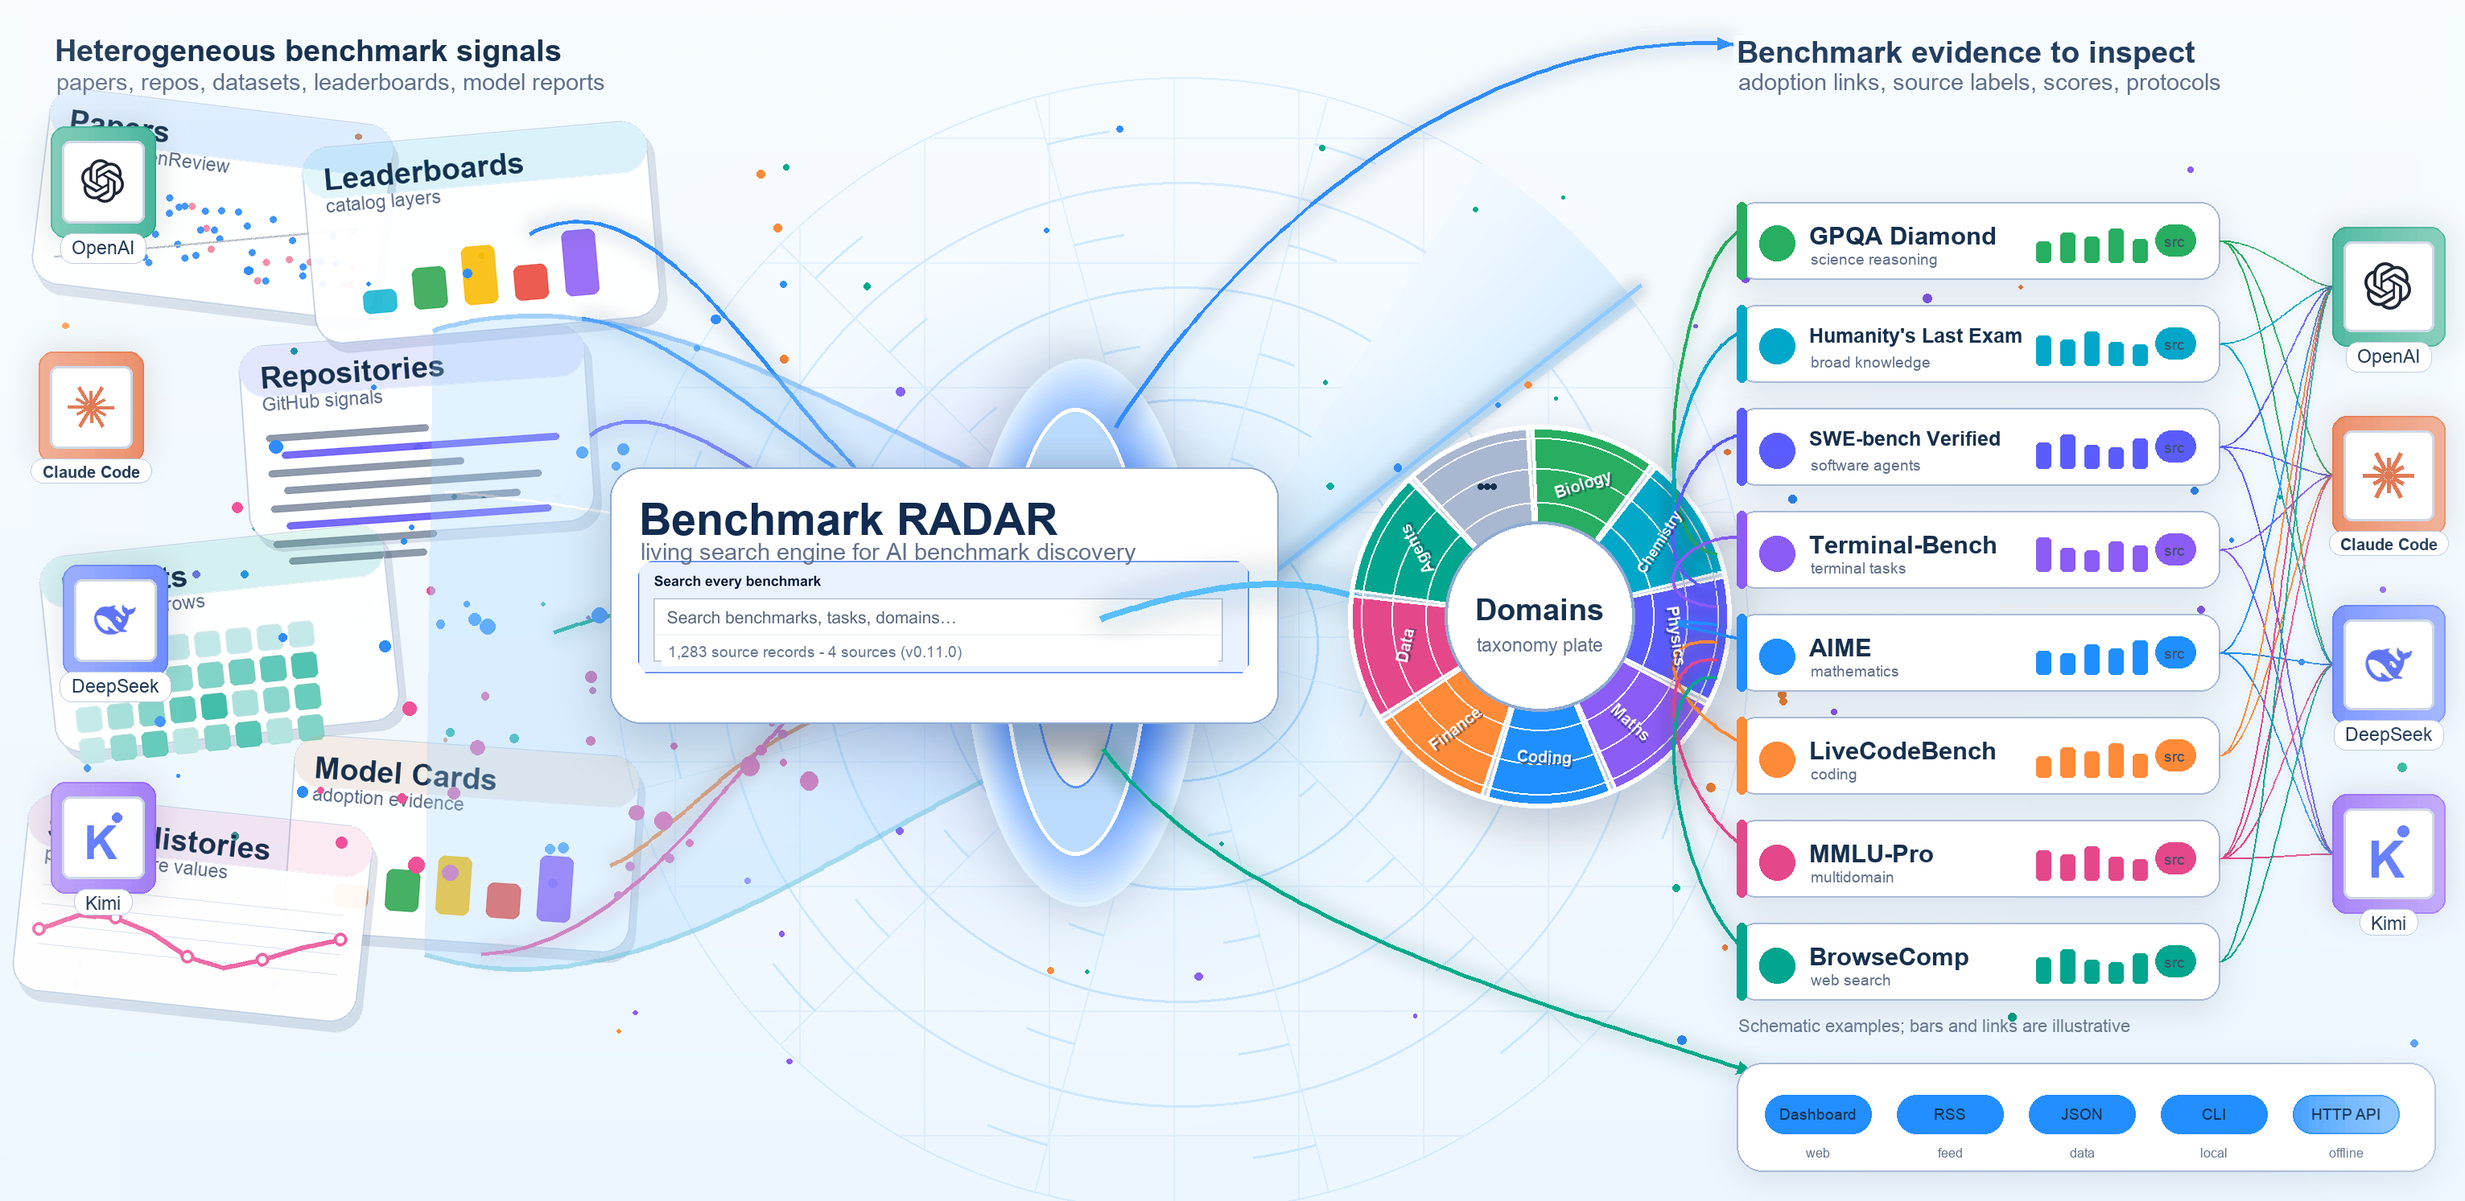
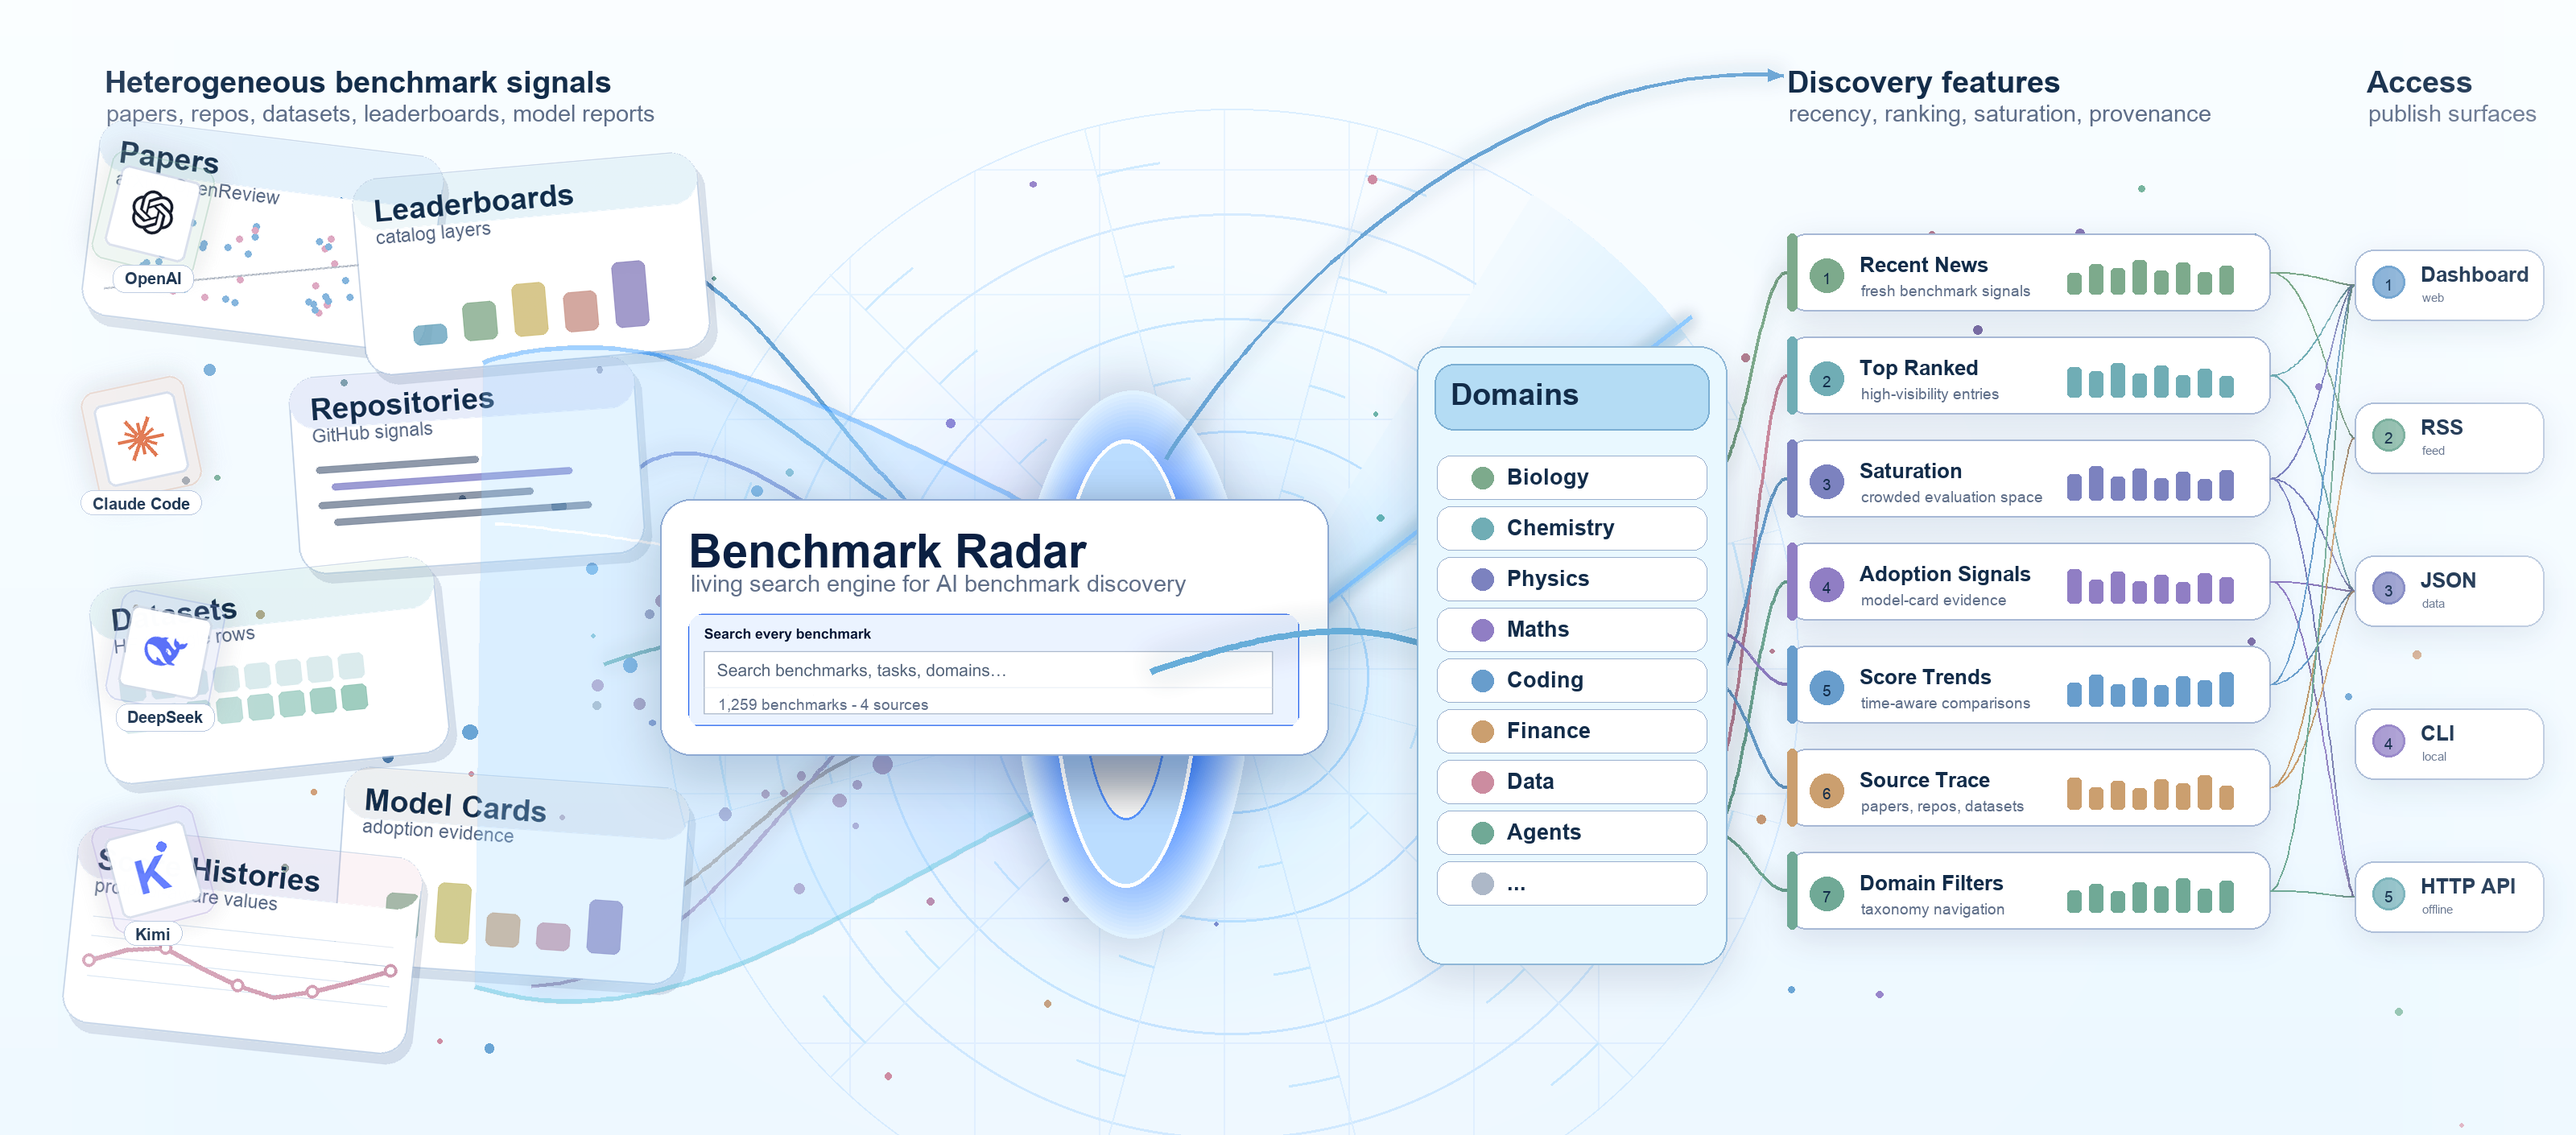
docs: add Wanghan and refresh paper artwork

diff --git a/main.tex b/main.tex
@@ -29,7 +29,7 @@
   urlcolor=CiteBlue,
   citecolor=CiteBlue,
   pdftitle={Benchmark RADAR: Living Search Engine for Retrieval and Discovery of AI Benchmark Research},
-  pdfauthor={Koutian Wu, Junjie Zhou, Ergan Shang, Jiayu Wang, and Pengqian Han}
+  pdfauthor={Koutian Wu, Junjie Zhou, Ergan Shang, Jiayu Wang, Pengqian Han, and Wanghan Xu}
 }
 
 \setlength{\parindent}{1.2em}
@@ -52,13 +52,14 @@
 \graphicspath{{figures/}}
 
 \title{\textbf{Benchmark RADAR: Living Search Engine for Retrieval and Discovery of AI Benchmark Research}}
-\author{Koutian Wu$^{1,2}$ \footnote{\small Corresponding author: \href{mailto:k@tacite.ai}{k@tacite.ai}} \quad Junjie Zhou$^3$ \quad Ergan Shang$^4$ \quad Jiayu Wang$^5$ \quad Pengqian Han$^6$\\[0.35em]
+\author{Koutian Wu$^{1,2}$ \footnote{\small Corresponding author: \href{mailto:k@tacite.ai}{k@tacite.ai}} \quad Junjie Zhou$^3$ \quad Ergan Shang$^4$ \quad Jiayu Wang$^5$ \quad Pengqian Han$^6$ \quad Wanghan Xu$^7$\\[0.35em]
 \small $^1$ Earth and Space AI \quad
 \small $^2$ Tacite AI \quad
 \small $^3$ Hangzhou Dianzi University\\
 \small $^4$ Carnegie Mellon University \quad
 \small $^5$ Xi'an Jiaotong University\\
-\small $^6$ The University of Auckland
+\small $^6$ The University of Auckland \\
+\small $^7$ Shanghai Jiao Tong University
 }
 \date{}
 
